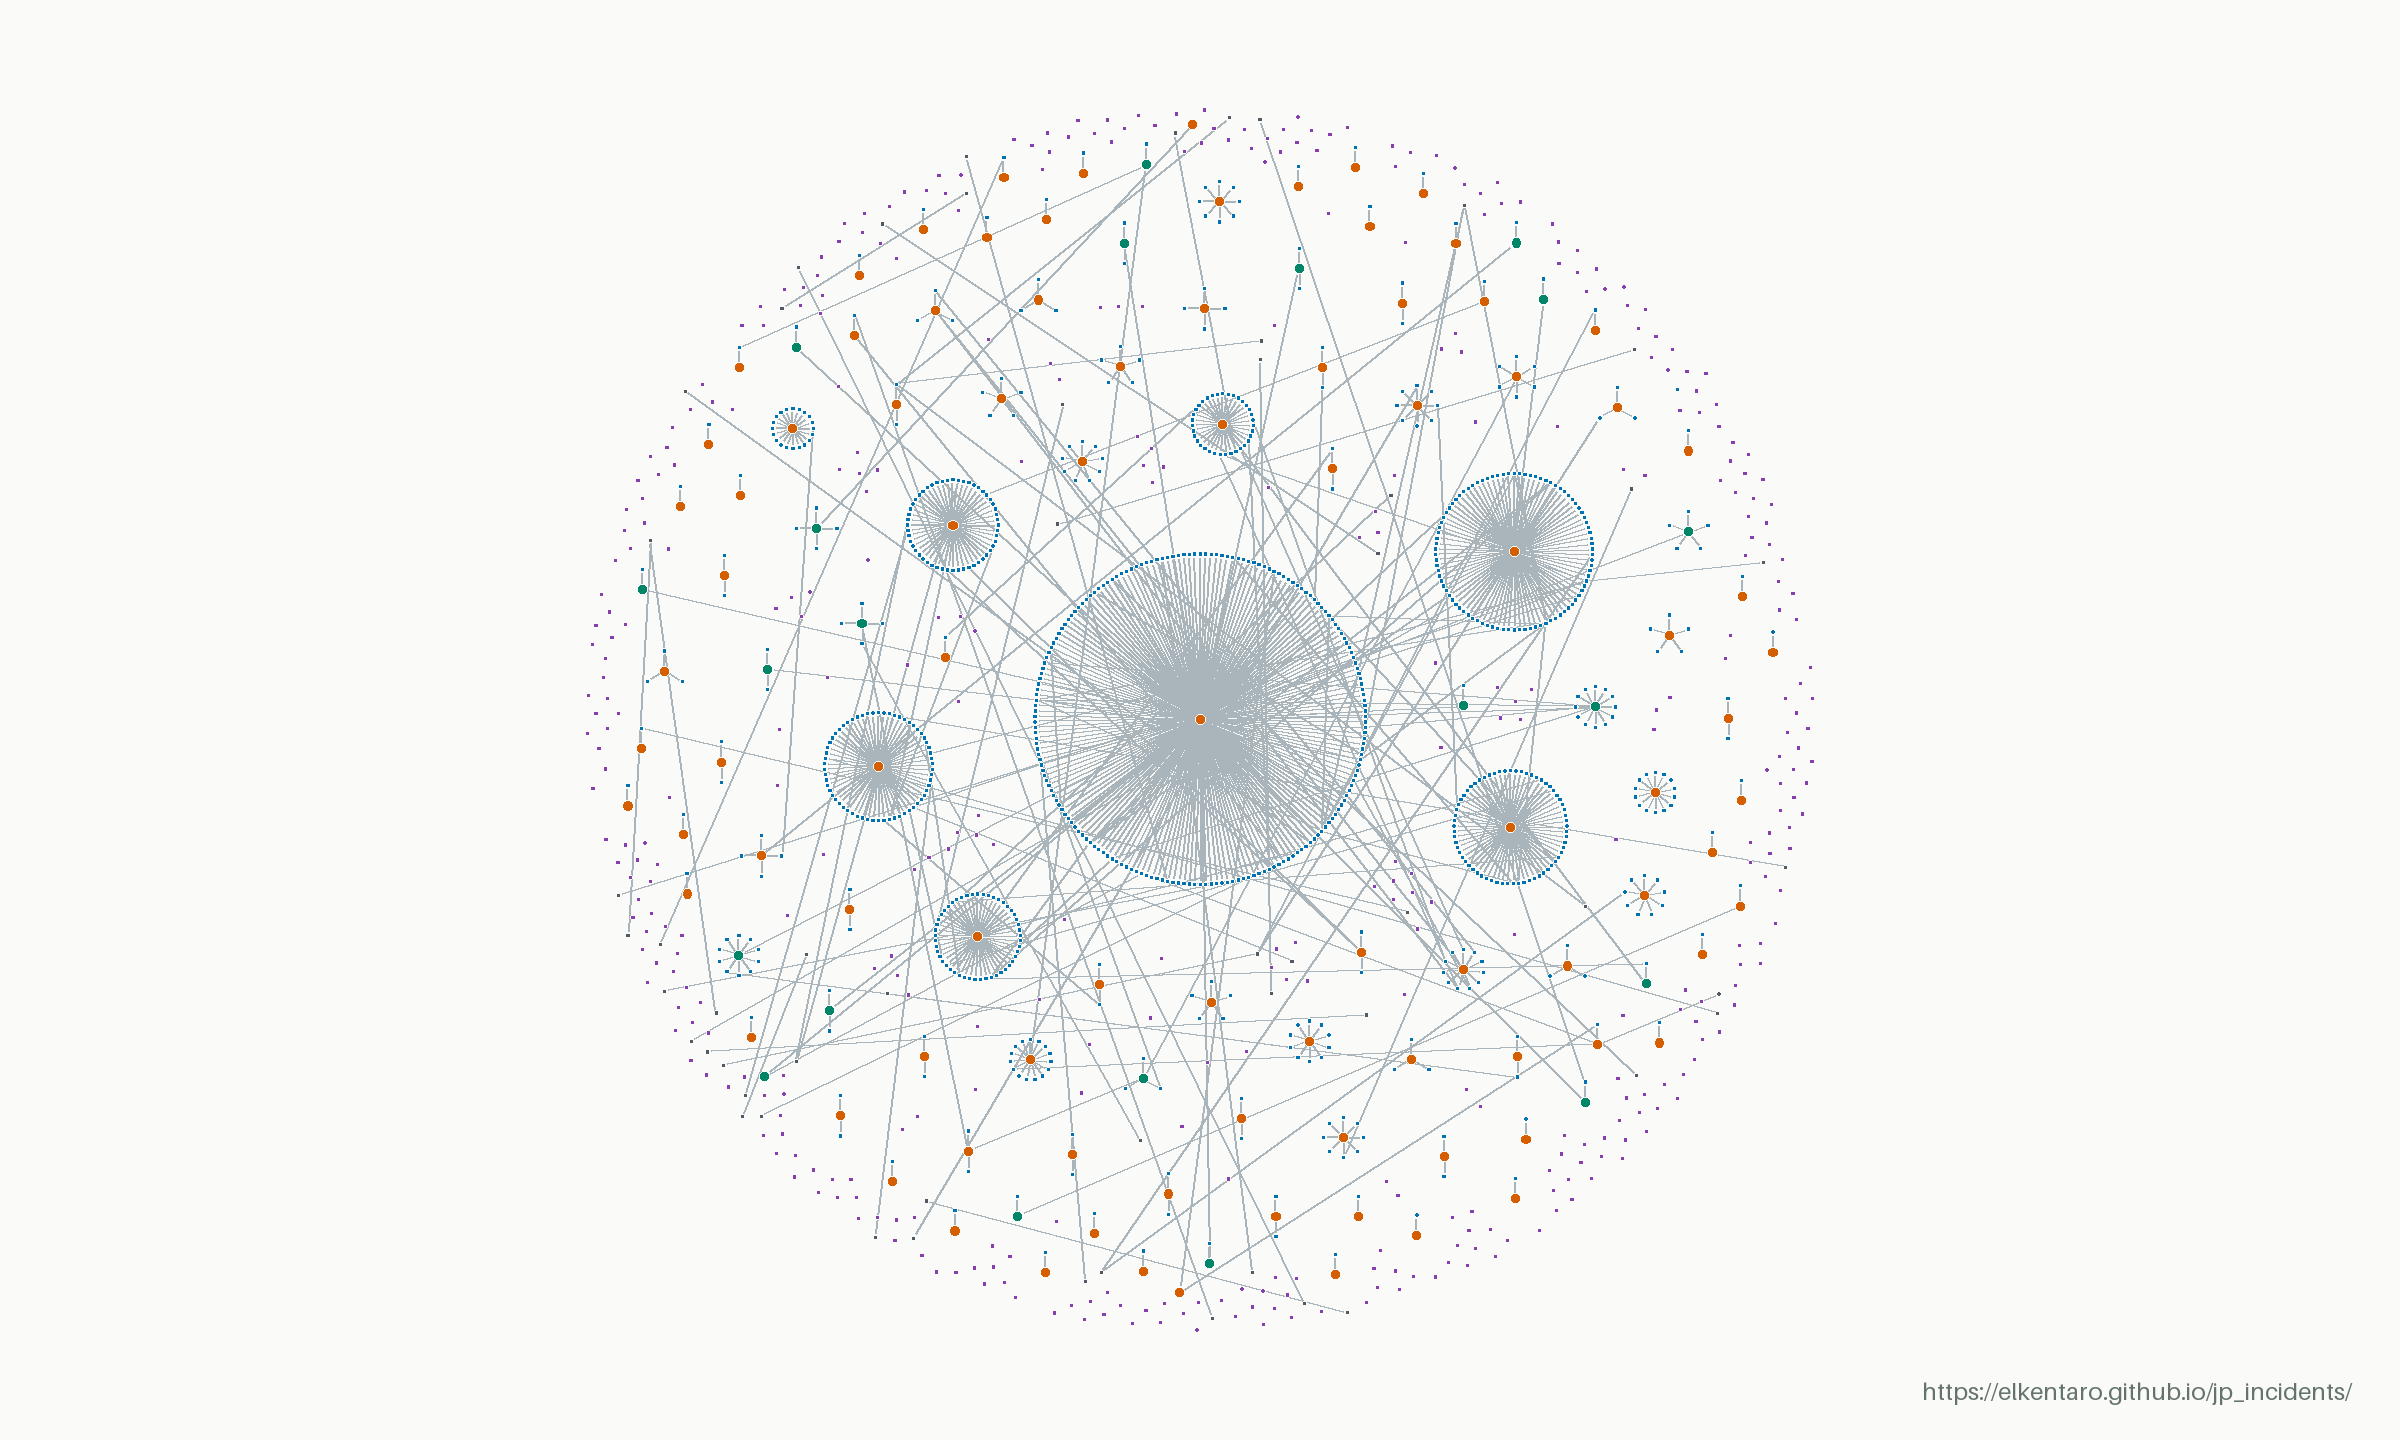
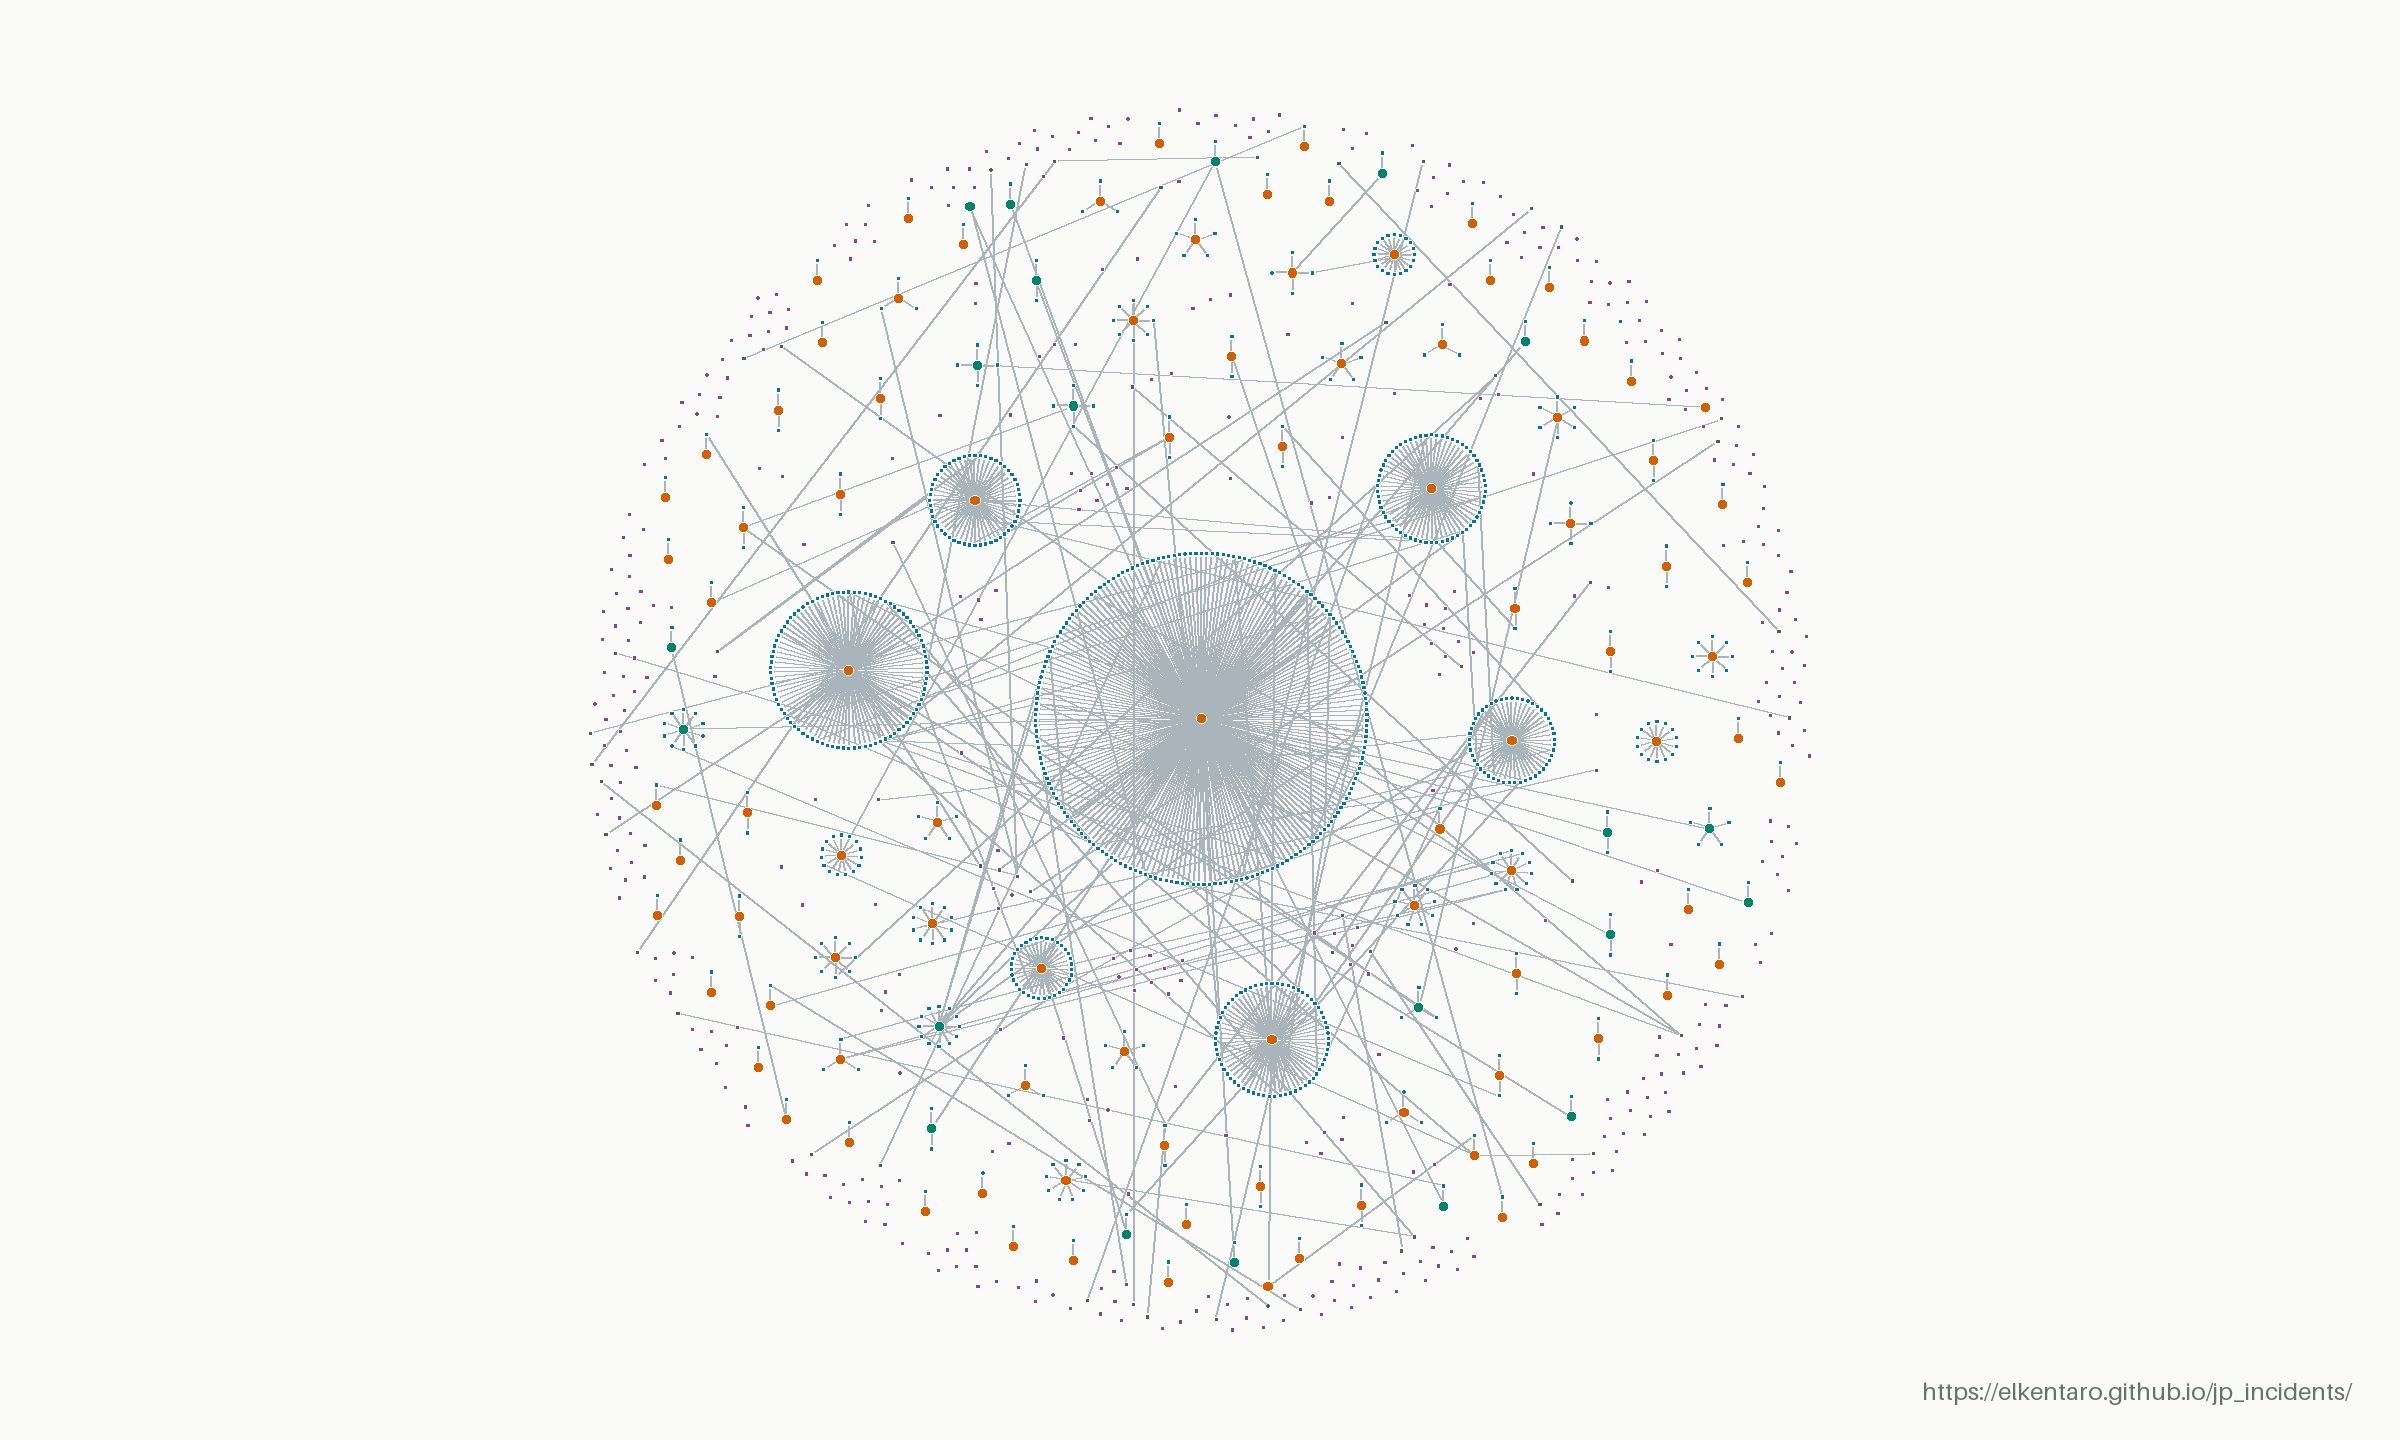
Update incident data (2026-11-18 22:17 UTC)

diff --git a/linkage.html b/linkage.html
@@ -36,13 +36,13 @@
         <div><dt data-copy="directUpstream">Upstream incidents</dt><dd id="upstream-count">94</dd></div>
         <div><dt data-copy="directStandalone">Standalone incidents</dt><dd id="standalone-count">470</dd></div>
       </dl>
-      <p class="direct-excluded"><strong id="downstream-count">866</strong> <span data-copy="directExcluded">downstream records excluded, including incidents with both roles.</span></p>
+      <p class="direct-excluded"><strong id="downstream-count">867</strong> <span data-copy="directExcluded">downstream records excluded, including incidents with both roles.</span></p>
       <p class="direct-definition" data-copy="directDefinition">Direct incidents = upstream + standalone, based on recorded causal links. Standalone incidents have no upstream or downstream causal links, but may have other links, such as separate events at the same organization.</p>
     </section>
     <dl class="map-stats">
-      <div><dt data-copy="total">Incidents in snapshot</dt><dd>1430</dd></div>
-      <div><dt data-copy="linked">With recorded connections</dt><dd>1013</dd></div>
-      <div><dt data-copy="links">Recorded connections</dt><dd>982</dd></div>
+      <div><dt data-copy="total">Incidents in snapshot</dt><dd>1431</dd></div>
+      <div><dt data-copy="linked">With recorded connections</dt><dd>1014</dd></div>
+      <div><dt data-copy="links">Recorded connections</dt><dd>983</dd></div>
       <div><dt data-copy="networks">Connected networks</dt><dd>77</dd></div>
     </dl>
     <figure class="map-figure">
@@ -50,7 +50,7 @@
         <img src="data/linkage-map.png" width="2400" height="1440" alt="Anonymized incident map. Orange upstream hubs connect to blue downstream incidents; purple unlinked incidents appear throughout the same map without connecting lines." data-copy-alt="alt">
       </div>
       <figcaption>
-        <div class="map-caption-meta"><span><span data-copy="updated">Last updated</span>: <time datetime="2026-11-18T20:16:16.335262+00:00">2026-11-18 20:16 UTC</time></span><a href="data/linkage-map.png" target="_blank" rel="noopener" data-copy="open">Open full-resolution image ↗</a></div>
+        <div class="map-caption-meta"><span><span data-copy="updated">Last updated</span>: <time datetime="2026-11-18T22:15:51.310640+00:00">2026-11-18 22:15 UTC</time></span><a href="data/linkage-map.png" target="_blank" rel="noopener" data-copy="open">Open full-resolution image ↗</a></div>
         <div class="map-key-section">
           <strong id="map-key-title" data-copy="key">Key</strong>
           <ul class="map-key" aria-labelledby="map-key-title">
@@ -69,7 +69,7 @@
       <section><h2 data-copy="readingTitle">Reading the map</h2><p data-copy="reading">Orange marks upstream incidents, blue downstream incidents, and purple unlinked incidents with no recorded connection. Teal marks incidents with both upstream and downstream roles; charcoal marks other related incidents. A missing connection does not establish that two incidents are unrelated.</p></section>
       <section><h2 data-copy="snapshotTitle">About this snapshot</h2><p data-copy="snapshot">The static image is refreshed when published incidents or relationships change, and at least every 24 hours during normal publication. Larger upstream clusters have extra spacing to keep their victims apart. Names, incident IDs, source links and incident dates are omitted; the connection pattern is retained. It is an overview of recorded relationships, not a complete map of cyber incidents in Japan.</p></section>
     </div>
-    <p class="map-source"><span data-copy="sourceUpdated">Source data updated</span>: <time datetime="2026-11-18T20:16:16+00:00">2026-11-18T20:16:16+00:00</time> · <a href="./" data-copy="browse">Browse the incident index</a></p>
+    <p class="map-source"><span data-copy="sourceUpdated">Source data updated</span>: <time datetime="2026-11-18T22:15:51+00:00">2026-11-18T22:15:51+00:00</time> · <a href="./" data-copy="browse">Browse the incident index</a></p>
   </main>
   <footer><div class="shell footer-inner"><p data-copy="footer">Public reports. Recorded relationships. An anonymized overview.</p><a href="./" data-copy="back">Back to incidents</a></div></footer>
   <script src="linkage.js?v=20261107-spacing" defer></script>
